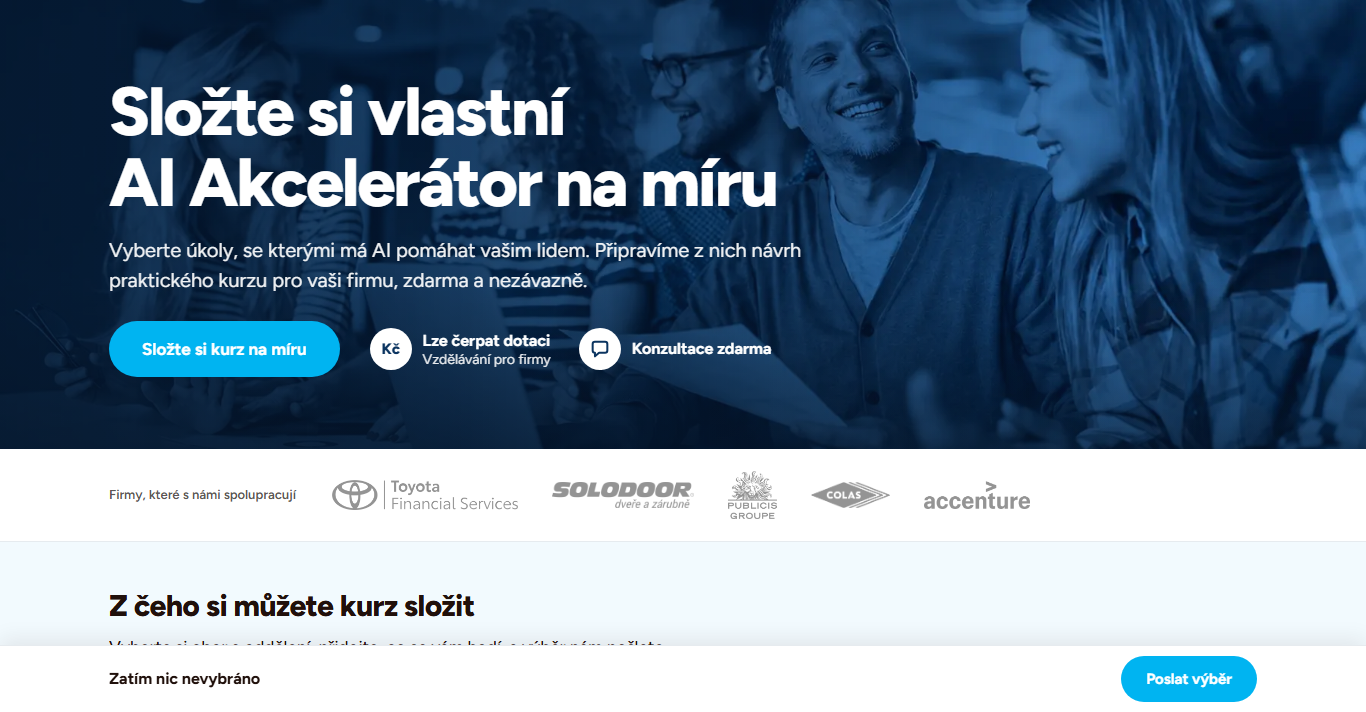
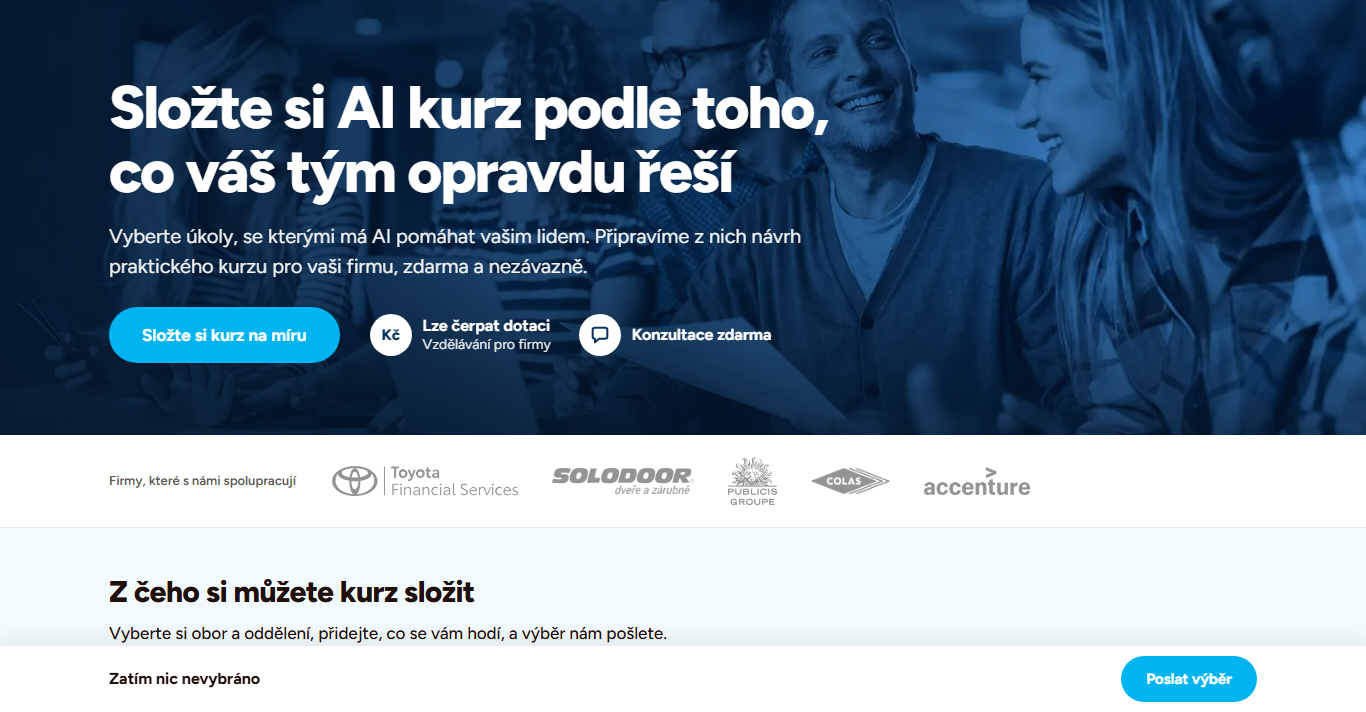
Nadpis bez názvu AI Akcelerátor a popisy karet „Naučíte se“
Návštěvník by název bez vysvětlení nechápal, zůstává jen ve shrnutí pro konzultanta.
Všech 42 popisů říká, co se člověk v kurzu naučí, ne co udělá aplikace.

diff --git a/index.html b/index.html
@@ -3,8 +3,8 @@
 <head>
 <meta charset="utf-8">
 <meta name="viewport" content="width=device-width, initial-scale=1">
-<title>Složte si vlastní AI Akcelerátor | LifeScale Business</title>
-<meta name="description" content="Vyberte, s čím by AI pomohla vašim lidem, a konzultant LifeScale vám z toho připraví návrh kurzu AI Akcelerátor na míru.">
+<title>Složte si AI kurz na míru | LifeScale Business</title>
+<meta name="description" content="Vyberte úkoly, se kterými má AI pomáhat vašim lidem, a konzultant LifeScale vám z nich připraví návrh kurzu na míru.">
 <meta name="claude:viewport-fit-sides" content="cover">
 <link rel="preconnect" href="https://fonts.googleapis.com">
 <link rel="preconnect" href="https://fonts.gstatic.com" crossorigin>
@@ -62,7 +62,7 @@ body::before{content:""; position:fixed; inset:0 0 auto; height:env(safe-area-in
 .hero{position:relative; overflow:hidden; color:#fff; padding:76px 0 72px; background:#0B3460 url("https://cms.lifescale.cz/assets/0bef6855-0b73-4e5a-b731-7e51b3e7ce15?width=1800&quality=72&format=webp") center/cover no-repeat}
 .hero::after{content:""; position:absolute; inset:0; background:linear-gradient(90deg, rgba(4,20,40,.78) 0%, rgba(4,20,40,.55) 48%, rgba(4,20,40,.12) 82%), linear-gradient(0deg, rgba(4,20,40,.62) 0%, rgba(4,20,40,0) 38%); pointer-events:none}
 .hero-in{position:relative; z-index:1}
-.hero h1{font-size:clamp(36px,5.2vw,68px); line-height:1.04; font-weight:800; letter-spacing:-.03em; color:#fff; max-width:15em}
+.hero h1{font-size:clamp(34px,4.6vw,60px); line-height:1.06; font-weight:800; letter-spacing:-.03em; color:#fff; max-width:12em}
 .nowrap{white-space:nowrap}
 .lede{font-size:clamp(17px,1.7vw,20px); line-height:1.5; color:rgba(255,255,255,.94); max-width:60ch; margin-top:18px}
 .hero-cta{display:flex; flex-wrap:wrap; align-items:center; gap:16px 30px; margin-top:26px}
@@ -257,7 +257,7 @@ html.embed::-webkit-scrollbar{display:none}
 <main id="top">
 <section class="hero">
   <div class="wrap hero-in">
-    <h1>Složte si vlastní <span class="nowrap">AI Akcelerátor</span> na míru</h1>
+    <h1>Složte si <span class="nowrap">AI kurz</span> podle toho, co váš tým opravdu řeší</h1>
     <p class="lede">Vyberte úkoly, se kterými má AI pomáhat vašim lidem. Připravíme z nich návrh praktického kurzu pro vaši firmu, zdarma a nezávazně.</p>
     <div class="hero-cta">
       <button class="btn btn-primary btn-lg" type="button" data-start>Složte si kurz na míru</button>
@@ -383,102 +383,102 @@ const LOGA = [
 const UC = [
   /* OBCHOD */
   { id:'o1', d:'obchod', i:[], u:[2,3], l:'s', t:'Nabídka z poptávky za pár minut',
-    w:'Z e-mailu s poptávkou připraví přehled, co klient chce, otázky, které je potřeba doplnit, a návrh průvodního e-mailu k nabídce.' },
+    w:'Naučíte se s AI připravit z e-mailu s poptávkou přehled, co klient chce, otázky k doplnění a návrh průvodního e-mailu.' },
   { id:'o2', d:'obchod', i:[], u:[1,2], l:'s', t:'Příprava na schůzku s novým klientem',
-    w:'Z vašich poznámek a informací z webu klienta připraví jednostránkový podklad: čím se firma zabývá, možné problémy, otázky a námitky.' },
+    w:'Naučíte se s AI připravit z poznámek a webu klienta jednostránkový podklad: čím se firma zabývá, možné problémy, otázky a námitky.' },
   { id:'o3', d:'obchod', i:[], u:[1,2], l:'s', t:'Zápis do CRM a další kroky po schůzce',
-    w:'Z přepisu nebo poznámek ze schůzky připraví shrnutí do CRM, seznam dalších kroků a e-mail klientovi.' },
+    w:'Naučíte se s AI připravit z přepisu nebo poznámek ze schůzky shrnutí do CRM, seznam dalších kroků a e-mail klientovi.' },
   { id:'o4', d:'obchod', i:[], u:[1,2], l:'s', t:'Trénink námitek s AI',
-    w:'AI hraje skeptického nákupčího a vy si zkoušíte odpovědi na námitky. Po každé odpovědi dostanete krátkou zpětnou vazbu.' },
+    w:'Naučíte se trénovat odpovědi na námitky: AI hraje skeptického nákupčího a po každé odpovědi vám dá krátkou zpětnou vazbu.' },
   /* MARKETING */
   { id:'m1', d:'marketing', i:[], u:[2,3], l:'s', t:'Z jednoho článku deset příspěvků',
-    w:'Z článku, webináře nebo prezentace připraví příspěvky na LinkedIn, tipy do newsletteru a varianty titulků.' },
+    w:'Naučíte se s AI připravit z článku, webináře nebo prezentace příspěvky na LinkedIn, tipy do newsletteru a varianty titulků.' },
   { id:'m2', d:'marketing', i:[], u:[1,2], l:'s', t:'Newsletter za hodinu místo za den',
-    w:'Z témat a poznámek připraví strukturu newsletteru: předmět, úvod, krátké bloky a výzvu k akci.' },
+    w:'Naučíte se s AI sestavit z témat a poznámek newsletter: předmět, úvod, krátké bloky a výzvu k akci.' },
   { id:'m3', d:'marketing', i:[], u:[2,4], l:'m', t:'Rozbor recenzí a dotazníků',
-    w:'Roztřídí odpovědi zákazníků do témat, spočítá zmínky, vybere typické citace a navrhne, co zlepšit nejdřív.' },
+    w:'Naučíte se s AI roztřídit odpovědi zákazníků do témat, spočítat zmínky, vybrat typické citace a určit, co zlepšit nejdřív.' },
   { id:'m4', d:'marketing', i:[], u:[1,3], l:'s', t:'Popisy produktů a služeb na web',
-    w:'Z technických parametrů připraví jednotné popisy na web: titulek, perex, přínosy pro zákazníka a parametry.' },
+    w:'Naučíte se s AI psát z technických parametrů jednotné popisy na web: titulek, perex, přínosy pro zákazníka a parametry.' },
   /* HR */
   { id:'h1', d:'hr', i:[], u:[1,2], l:'s', t:'Inzerát, na který se ozvou ti správní',
-    w:'Z popisu pozice připraví srozumitelný inzerát s jasnou náplní práce, požadavky a nabídkou.' },
+    w:'Naučíte se s AI napsat z popisu pozice srozumitelný inzerát s jasnou náplní práce, požadavky a nabídkou.' },
   { id:'h2', d:'hr', i:[], u:[2,3], l:'s', t:'Plán zaškolení na první měsíc',
-    w:'Připraví plán onboardingu po týdnech: cíle, s kým se potkat, co si přečíst a jak poznat, že to nováček zvládl.' },
+    w:'Naučíte se s AI sestavit plán onboardingu po týdnech: cíle, s kým se potkat, co si přečíst a jak poznat, že to nováček zvládl.' },
   { id:'h3', d:'hr', i:[], u:[1,2], l:'s', t:'Otázky k pohovoru a hodnoticí karta',
-    w:'Připraví otázky k pohovoru podle dovedností, které hledáte, a jednoduchou kartu pro férové porovnání uchazečů.' },
+    w:'Naučíte se s AI připravit otázky k pohovoru podle hledaných dovedností a jednoduchou kartu pro férové porovnání uchazečů.' },
   { id:'h4', d:'hr', i:[], u:[1,3], l:'m', t:'Odpovědi na časté dotazy ze směrnic',
-    w:'Z firemních směrnic připraví srozumitelné odpovědi na časté dotazy zaměstnanců, třeba k dovolené, home office nebo benefitům.' },
+    w:'Naučíte se s AI připravit z firemních směrnic srozumitelné odpovědi na časté dotazy zaměstnanců, třeba k dovolené, home office nebo benefitům.' },
   /* FINANCE */
   { id:'f1', d:'finance', i:[], u:[1,3], l:'m', t:'Komentář k odchylkám od rozpočtu',
-    w:'Najde největší odchylky skutečnosti od plánu a připraví srozumitelný komentář pro vedení.' },
+    w:'Naučíte se s AI najít největší odchylky skutečnosti od plánu a napsat k nim srozumitelný komentář pro vedení.' },
   { id:'f2', d:'finance', i:[], u:[0.5,1], l:'s', t:'Upomínky, které nezkazí vztah',
-    w:'Připraví tři stupně upomínky k neuhrazené faktuře, od přátelské po poslední před vymáháním.' },
+    w:'Naučíte se s AI připravit tři stupně upomínky k neuhrazené faktuře, od přátelské po poslední před vymáháním.' },
   { id:'f3', d:'finance', i:[], u:[1,2], l:'s', t:'Vzorce v Excelu bez hledání na internetu',
-    w:'Napíše vzorec pro český Excel, vysvětlí ho krok za krokem a poradí, jak ověřit, že počítá správně.' },
+    w:'Naučíte se s AI psát vzorce pro český Excel, rozumět jim krok za krokem a ověřit, že počítají správně.' },
   { id:'f4', d:'finance', i:[], u:[1,3], l:'m', t:'Kontrola faktury proti objednávce',
-    w:'Porovná fakturu s objednávkou nebo smlouvou a vypíše rozdíly v položkách, cenách, DPH a splatnosti.' },
+    w:'Naučíte se s AI porovnat fakturu s objednávkou nebo smlouvou a vypsat rozdíly v položkách, cenách, DPH a splatnosti.' },
   /* ZÁKAZNICKÁ PÉČE */
   { id:'z1', d:'pece', i:[], u:[2,4], l:'s', t:'Odpověď na stížnost, která uklidní',
-    w:'Připraví odpověď na stížnost, která uzná problém, vysvětlí další postup a nabídne konkrétní krok.' },
+    w:'Naučíte se s AI připravit odpověď na stížnost, která uzná problém, vysvětlí další postup a nabídne konkrétní krok.' },
   { id:'z2', d:'pece', i:[], u:[2,3], l:'m', t:'Šablony na nejčastější dotazy',
-    w:'Z dotazů za poslední měsíc najde nejčastější témata a ke každému připraví šablonu odpovědi.' },
+    w:'Naučíte se s AI najít v dotazech za poslední měsíc nejčastější témata a ke každému připravit šablonu odpovědi.' },
   { id:'z3', d:'pece', i:[], u:[1,2], l:'s', t:'Zákazník píše anglicky, německy nebo ukrajinsky',
-    w:'Přeloží zprávu zákazníka, shrne, co chce, a vaši odpověď přeloží zpátky do jeho jazyka.' },
+    w:'Naučíte se s AI přeložit zprávu zákazníka, shrnout, co chce, a vaši odpověď přeložit zpátky do jeho jazyka.' },
   { id:'z4', d:'pece', i:[], u:[1,2], l:'m', t:'Zpětná vazba k odpovědím týmu',
-    w:'Ohodnotí vzorek odpovědí týmu podle srozumitelnosti, empatie a toho, jestli řeší problém, a ke každé dá radu.' },
+    w:'Naučíte se s AI hodnotit vzorek odpovědí týmu podle srozumitelnosti, empatie a toho, jestli řeší problém, a získat ke každé radu.' },
   /* PROVOZ A ODBORNÁ PRÁCE */
   { id:'p1', d:'provoz', i:[], u:[1,3], l:'s', t:'Pracovní postup z poznámek',
-    w:'Z poznámek zkušeného kolegy připraví přehledný postup: účel, pomůcky, kroky v pořadí, časté chyby a kontrolu.' },
+    w:'Naučíte se s AI připravit z poznámek zkušeného kolegy přehledný postup: účel, pomůcky, kroky v pořadí, časté chyby a kontrolu.' },
   { id:'p2', d:'provoz', i:[], u:[1,2], l:'s', t:'Hledání příčiny opakovaného problému',
-    w:'Projde s vámi problém metodou 5x proč, ptá se po jedné otázce a na konci shrne pravděpodobnou příčinu a opatření.' },
+    w:'Naučíte se s AI projít problém metodou 5x proč, otázku po otázce, a na konci shrnout pravděpodobnou příčinu a opatření.' },
   { id:'p3', d:'provoz', i:[], u:[1,2], l:'s', t:'Předávka směny bez zmatků',
-    w:'Z poznámek ze směny připraví stručnou předávací zprávu: co se stalo, co je rozpracované a na co si dát pozor.' },
+    w:'Naučíte se s AI připravit z poznámek ze směny stručnou předávací zprávu: co se stalo, co je rozpracované a na co si dát pozor.' },
   { id:'p4', d:'provoz', i:[], u:[1,2], l:'s', t:'Školení BOZP do mobilu',
-    w:'Ze směrnice BOZP připraví krátkou lekci: čtyři karty s hlavními pravidly a tři kvízové otázky.' },
+    w:'Naučíte se s AI připravit ze směrnice BOZP krátkou lekci: čtyři karty s hlavními pravidly a tři kvízové otázky.' },
   /* VEDENÍ FIRMY */
   { id:'v1', d:'vedeni', i:[], u:[1,2], l:'s', t:'Týdenní přehled pro vedení na jednu stranu',
-    w:'Z tabulky s čísly připraví přehled: tři hlavní zprávy, co se zlepšilo, co zhoršilo a jaká rozhodnutí jsou potřeba.' },
+    w:'Naučíte se s AI připravit z tabulky s čísly přehled: tři hlavní zprávy, co se zlepšilo, co zhoršilo a jaká rozhodnutí jsou potřeba.' },
   { id:'v2', d:'vedeni', i:[], u:[1,1.5], l:'s', t:'Porada s jasným výsledkem',
-    w:'Připraví program porady s časy, odpovědnými lidmi a výstupy a šablonu zápisu s úkoly.' },
+    w:'Naučíte se s AI připravit program porady s časy, odpovědnými lidmi a výstupy a šablonu zápisu s úkoly.' },
   { id:'v3', d:'vedeni', i:[], u:[1,2], l:'s', t:'Oponentura strategického rozhodnutí',
-    w:'AI hraje kritického člena představenstva: najde argumenty proti, přehlédnutá rizika a otázky, na které chcete znát odpověď.' },
+    w:'Naučíte se nechat AI hrát kritického člena představenstva, který najde argumenty proti, přehlédnutá rizika a otázky, na které chcete znát odpověď.' },
   { id:'v4', d:'vedeni', i:[], u:[0.5,1], l:'m', t:'Pravidla pro používání AI ve firmě',
-    w:'Připraví návrh interních pravidel: jaké nástroje používat, co do nich nevkládat, kdy výstup kontroluje člověk a koho se ptát.' },
+    w:'Naučíte se s AI navrhnout interní pravidla: jaké nástroje používat, co do nich nevkládat, kdy výstup kontroluje člověk a koho se ptát.' },
   /* STAVEBNICTVÍ */
   { id:'s1', d:'obchod', i:['stavebnictvi'], u:[2,4], l:'m', t:'Kontrola výkazu výměr proti nabídce',
-    w:'Porovná výkaz výměr z poptávky s vaší cenovou nabídkou a najde chybějící položky a jiná množství nebo jednotky.' },
+    w:'Naučíte se s AI porovnat výkaz výměr z poptávky s vaší cenovou nabídkou a najít chybějící položky a jiná množství nebo jednotky.' },
   { id:'s2', d:'provoz', i:['stavebnictvi'], u:[1,3], l:'s', t:'Zápis z kontrolního dne',
-    w:'Z poznámek a hlasového přepisu z kontrolního dne připraví zápis se stavem prací, vadami, termíny a odpovědnými firmami.' },
+    w:'Naučíte se s AI připravit z poznámek a hlasového přepisu z kontrolního dne zápis se stavem prací, vadami, termíny a odpovědnými firmami.' },
   /* ZDRAVOTNICTVÍ */
   { id:'zd1', d:'pece', i:['zdravotnictvi'], u:[1,2], l:'s', t:'Srozumitelné pokyny pro pacienta',
-    w:'Přepíše odborné pokyny po vyšetření nebo zákroku do srozumitelné češtiny pro laika, nic medicínsky nemění.' },
+    w:'Naučíte se s AI přepsat odborné pokyny po vyšetření nebo zákroku do srozumitelné češtiny pro laika, bez změny medicínského obsahu.' },
   { id:'zd2', d:'vedeni', i:['zdravotnictvi'], u:[1,3], l:'m', t:'Rozpis služeb a zástupů',
-    w:'Navrhne rozpis služeb podle vašich pravidel a upozorní, kde je nejde splnit.' },
+    w:'Naučíte se s AI navrhnout rozpis služeb podle vašich pravidel a zjistit, kde je nejde splnit.' },
   /* LOGISTIKA */
   { id:'l1', d:'pece', i:['logistika'], u:[2,4], l:'m', t:'Odpověď na dotaz, kde je zásilka',
-    w:'Ze stavu v systému připraví odpověď zákazníkovi: kde zásilka je, kdy dorazí a co dělat, když nebude doma.' },
+    w:'Naučíte se s AI připravit ze stavu v systému odpověď zákazníkovi: kde zásilka je, kdy dorazí a co dělat, když nebude doma.' },
   { id:'l2', d:'vedeni', i:['logistika'], u:[1,3], l:'m', t:'Rozbor škod a reklamací za měsíc',
-    w:'Najde v reklamacích a škodách opakující se vzorce podle tras, typů a dnů a navrhne opatření s největším dopadem.' },
+    w:'Naučíte se s AI najít v reklamacích a škodách opakující se vzorce podle tras, typů a dnů a navrhnout opatření s největším dopadem.' },
   /* FINANČNÍ SLUŽBY */
   { id:'fs1', d:'obchod', i:['fin'], u:[1,2], l:'m', t:'Přehled firmy z výroční zprávy',
-    w:'Z výroční zprávy klienta připraví přehled hlavních ukazatelů, změn a rizik a otázky na schůzku.' },
+    w:'Naučíte se s AI připravit z výroční zprávy klienta přehled hlavních ukazatelů, změn a rizik a otázky na schůzku.' },
   { id:'fs2', d:'marketing', i:['fin'], u:[1,2], l:'s', t:'Srozumitelné vysvětlení produktu',
-    w:'Vysvětlí finanční produkt člověku bez finančního vzdělání: co to je, pro koho se hodí, poplatky a rizika.' },
+    w:'Naučíte se s AI vysvětlit finanční produkt člověku bez finančního vzdělání: co to je, pro koho se hodí, poplatky a rizika.' },
   /* ADVOKÁTNÍ KANCELÁŘE */
   { id:'a1', d:'provoz', i:['pravo'], u:[2,4], l:'m', t:'První verze smlouvy z vaší šablony',
-    w:'Podle vaší šablony a podmínek obchodu připraví první verzi smlouvy, změny označí a nejasná místa vypíše jako otázky.' },
+    w:'Naučíte se s AI připravit podle vaší šablony a podmínek obchodu první verzi smlouvy, označit změny a vypsat nejasná místa jako otázky.' },
   { id:'a2', d:'provoz', i:['pravo'], u:[2,4], l:'m', t:'Časová osa a shrnutí spisu',
-    w:'Z dokumentů ke kauze sestaví časovou osu s odkazy na dokumenty, shrne stanoviska stran a najde rozpory.' },
+    w:'Naučíte se s AI sestavit z dokumentů ke kauze časovou osu s odkazy, shrnout stanoviska stran a najít rozpory.' },
   /* VÝROBA A PRŮMYSL */
   { id:'vy1', d:'provoz', i:['vyroba'], u:[1,2], l:'s', t:'Návod ke stroji v jazyce operátora',
-    w:'Přepíše návod ke stroji do krátkého postupu pro operátora a přeloží ho, třeba do ukrajinštiny nebo vietnamštiny.' },
+    w:'Naučíte se s AI přepsat návod ke stroji do krátkého postupu pro operátora a přeložit ho, třeba do ukrajinštiny nebo vietnamštiny.' },
   { id:'vy2', d:'provoz', i:['vyroba'], u:[1,2], l:'m', t:'Plán preventivní údržby',
-    w:'Z intervalů v návodech a historie poruch navrhne plán údržby na čtvrtletí a upozorní, kde interval nestačí.' },
+    w:'Naučíte se s AI navrhnout z intervalů v návodech a historie poruch plán údržby na čtvrtletí a zjistit, kde interval nestačí.' },
   /* AUTOMOTIVE */
   { id:'au1', d:'provoz', i:['auto'], u:[2,4], l:'m', t:'Návrh 8D reportu k reklamaci',
-    w:'Připraví pracovní verzi 8D reportu a u každého kroku napíše, co chybí a koho se zeptat.' },
+    w:'Naučíte se s AI připravit pracovní verzi 8D reportu a u každého kroku zjistit, co chybí a koho se zeptat.' },
   { id:'au2', d:'vedeni', i:['auto'], u:[1,3], l:'m', t:'Příprava na audit podle IATF',
-    w:'Projde váš postup a vypíše otázky, které auditor pravděpodobně položí, i důkazy, které máte mít připravené.' }
+    w:'Naučíte se s AI projít váš postup a vypsat otázky, které auditor pravděpodobně položí, i důkazy, které máte mít připravené.' }
 ];
 /* ---------- Složte si vlastní AI Akcelerátor: logika ---------- */
 (function(){

diff --git a/src/data.js b/src/data.js
@@ -27,100 +27,100 @@ const LOGA = [
 const UC = [
   /* OBCHOD */
   { id:'o1', d:'obchod', i:[], u:[2,3], l:'s', t:'Nabídka z poptávky za pár minut',
-    w:'Z e-mailu s poptávkou připraví přehled, co klient chce, otázky, které je potřeba doplnit, a návrh průvodního e-mailu k nabídce.' },
+    w:'Naučíte se s AI připravit z e-mailu s poptávkou přehled, co klient chce, otázky k doplnění a návrh průvodního e-mailu.' },
   { id:'o2', d:'obchod', i:[], u:[1,2], l:'s', t:'Příprava na schůzku s novým klientem',
-    w:'Z vašich poznámek a informací z webu klienta připraví jednostránkový podklad: čím se firma zabývá, možné problémy, otázky a námitky.' },
+    w:'Naučíte se s AI připravit z poznámek a webu klienta jednostránkový podklad: čím se firma zabývá, možné problémy, otázky a námitky.' },
   { id:'o3', d:'obchod', i:[], u:[1,2], l:'s', t:'Zápis do CRM a další kroky po schůzce',
-    w:'Z přepisu nebo poznámek ze schůzky připraví shrnutí do CRM, seznam dalších kroků a e-mail klientovi.' },
+    w:'Naučíte se s AI připravit z přepisu nebo poznámek ze schůzky shrnutí do CRM, seznam dalších kroků a e-mail klientovi.' },
   { id:'o4', d:'obchod', i:[], u:[1,2], l:'s', t:'Trénink námitek s AI',
-    w:'AI hraje skeptického nákupčího a vy si zkoušíte odpovědi na námitky. Po každé odpovědi dostanete krátkou zpětnou vazbu.' },
+    w:'Naučíte se trénovat odpovědi na námitky: AI hraje skeptického nákupčího a po každé odpovědi vám dá krátkou zpětnou vazbu.' },
   /* MARKETING */
   { id:'m1', d:'marketing', i:[], u:[2,3], l:'s', t:'Z jednoho článku deset příspěvků',
-    w:'Z článku, webináře nebo prezentace připraví příspěvky na LinkedIn, tipy do newsletteru a varianty titulků.' },
+    w:'Naučíte se s AI připravit z článku, webináře nebo prezentace příspěvky na LinkedIn, tipy do newsletteru a varianty titulků.' },
   { id:'m2', d:'marketing', i:[], u:[1,2], l:'s', t:'Newsletter za hodinu místo za den',
-    w:'Z témat a poznámek připraví strukturu newsletteru: předmět, úvod, krátké bloky a výzvu k akci.' },
+    w:'Naučíte se s AI sestavit z témat a poznámek newsletter: předmět, úvod, krátké bloky a výzvu k akci.' },
   { id:'m3', d:'marketing', i:[], u:[2,4], l:'m', t:'Rozbor recenzí a dotazníků',
-    w:'Roztřídí odpovědi zákazníků do témat, spočítá zmínky, vybere typické citace a navrhne, co zlepšit nejdřív.' },
+    w:'Naučíte se s AI roztřídit odpovědi zákazníků do témat, spočítat zmínky, vybrat typické citace a určit, co zlepšit nejdřív.' },
   { id:'m4', d:'marketing', i:[], u:[1,3], l:'s', t:'Popisy produktů a služeb na web',
-    w:'Z technických parametrů připraví jednotné popisy na web: titulek, perex, přínosy pro zákazníka a parametry.' },
+    w:'Naučíte se s AI psát z technických parametrů jednotné popisy na web: titulek, perex, přínosy pro zákazníka a parametry.' },
   /* HR */
   { id:'h1', d:'hr', i:[], u:[1,2], l:'s', t:'Inzerát, na který se ozvou ti správní',
-    w:'Z popisu pozice připraví srozumitelný inzerát s jasnou náplní práce, požadavky a nabídkou.' },
+    w:'Naučíte se s AI napsat z popisu pozice srozumitelný inzerát s jasnou náplní práce, požadavky a nabídkou.' },
   { id:'h2', d:'hr', i:[], u:[2,3], l:'s', t:'Plán zaškolení na první měsíc',
-    w:'Připraví plán onboardingu po týdnech: cíle, s kým se potkat, co si přečíst a jak poznat, že to nováček zvládl.' },
+    w:'Naučíte se s AI sestavit plán onboardingu po týdnech: cíle, s kým se potkat, co si přečíst a jak poznat, že to nováček zvládl.' },
   { id:'h3', d:'hr', i:[], u:[1,2], l:'s', t:'Otázky k pohovoru a hodnoticí karta',
-    w:'Připraví otázky k pohovoru podle dovedností, které hledáte, a jednoduchou kartu pro férové porovnání uchazečů.' },
+    w:'Naučíte se s AI připravit otázky k pohovoru podle hledaných dovedností a jednoduchou kartu pro férové porovnání uchazečů.' },
   { id:'h4', d:'hr', i:[], u:[1,3], l:'m', t:'Odpovědi na časté dotazy ze směrnic',
-    w:'Z firemních směrnic připraví srozumitelné odpovědi na časté dotazy zaměstnanců, třeba k dovolené, home office nebo benefitům.' },
+    w:'Naučíte se s AI připravit z firemních směrnic srozumitelné odpovědi na časté dotazy zaměstnanců, třeba k dovolené, home office nebo benefitům.' },
   /* FINANCE */
   { id:'f1', d:'finance', i:[], u:[1,3], l:'m', t:'Komentář k odchylkám od rozpočtu',
-    w:'Najde největší odchylky skutečnosti od plánu a připraví srozumitelný komentář pro vedení.' },
+    w:'Naučíte se s AI najít největší odchylky skutečnosti od plánu a napsat k nim srozumitelný komentář pro vedení.' },
   { id:'f2', d:'finance', i:[], u:[0.5,1], l:'s', t:'Upomínky, které nezkazí vztah',
-    w:'Připraví tři stupně upomínky k neuhrazené faktuře, od přátelské po poslední před vymáháním.' },
+    w:'Naučíte se s AI připravit tři stupně upomínky k neuhrazené faktuře, od přátelské po poslední před vymáháním.' },
   { id:'f3', d:'finance', i:[], u:[1,2], l:'s', t:'Vzorce v Excelu bez hledání na internetu',
-    w:'Napíše vzorec pro český Excel, vysvětlí ho krok za krokem a poradí, jak ověřit, že počítá správně.' },
+    w:'Naučíte se s AI psát vzorce pro český Excel, rozumět jim krok za krokem a ověřit, že počítají správně.' },
   { id:'f4', d:'finance', i:[], u:[1,3], l:'m', t:'Kontrola faktury proti objednávce',
-    w:'Porovná fakturu s objednávkou nebo smlouvou a vypíše rozdíly v položkách, cenách, DPH a splatnosti.' },
+    w:'Naučíte se s AI porovnat fakturu s objednávkou nebo smlouvou a vypsat rozdíly v položkách, cenách, DPH a splatnosti.' },
   /* ZÁKAZNICKÁ PÉČE */
   { id:'z1', d:'pece', i:[], u:[2,4], l:'s', t:'Odpověď na stížnost, která uklidní',
-    w:'Připraví odpověď na stížnost, která uzná problém, vysvětlí další postup a nabídne konkrétní krok.' },
+    w:'Naučíte se s AI připravit odpověď na stížnost, která uzná problém, vysvětlí další postup a nabídne konkrétní krok.' },
   { id:'z2', d:'pece', i:[], u:[2,3], l:'m', t:'Šablony na nejčastější dotazy',
-    w:'Z dotazů za poslední měsíc najde nejčastější témata a ke každému připraví šablonu odpovědi.' },
+    w:'Naučíte se s AI najít v dotazech za poslední měsíc nejčastější témata a ke každému připravit šablonu odpovědi.' },
   { id:'z3', d:'pece', i:[], u:[1,2], l:'s', t:'Zákazník píše anglicky, německy nebo ukrajinsky',
-    w:'Přeloží zprávu zákazníka, shrne, co chce, a vaši odpověď přeloží zpátky do jeho jazyka.' },
+    w:'Naučíte se s AI přeložit zprávu zákazníka, shrnout, co chce, a vaši odpověď přeložit zpátky do jeho jazyka.' },
   { id:'z4', d:'pece', i:[], u:[1,2], l:'m', t:'Zpětná vazba k odpovědím týmu',
-    w:'Ohodnotí vzorek odpovědí týmu podle srozumitelnosti, empatie a toho, jestli řeší problém, a ke každé dá radu.' },
+    w:'Naučíte se s AI hodnotit vzorek odpovědí týmu podle srozumitelnosti, empatie a toho, jestli řeší problém, a získat ke každé radu.' },
   /* PROVOZ A ODBORNÁ PRÁCE */
   { id:'p1', d:'provoz', i:[], u:[1,3], l:'s', t:'Pracovní postup z poznámek',
-    w:'Z poznámek zkušeného kolegy připraví přehledný postup: účel, pomůcky, kroky v pořadí, časté chyby a kontrolu.' },
+    w:'Naučíte se s AI připravit z poznámek zkušeného kolegy přehledný postup: účel, pomůcky, kroky v pořadí, časté chyby a kontrolu.' },
   { id:'p2', d:'provoz', i:[], u:[1,2], l:'s', t:'Hledání příčiny opakovaného problému',
-    w:'Projde s vámi problém metodou 5x proč, ptá se po jedné otázce a na konci shrne pravděpodobnou příčinu a opatření.' },
+    w:'Naučíte se s AI projít problém metodou 5x proč, otázku po otázce, a na konci shrnout pravděpodobnou příčinu a opatření.' },
   { id:'p3', d:'provoz', i:[], u:[1,2], l:'s', t:'Předávka směny bez zmatků',
-    w:'Z poznámek ze směny připraví stručnou předávací zprávu: co se stalo, co je rozpracované a na co si dát pozor.' },
+    w:'Naučíte se s AI připravit z poznámek ze směny stručnou předávací zprávu: co se stalo, co je rozpracované a na co si dát pozor.' },
   { id:'p4', d:'provoz', i:[], u:[1,2], l:'s', t:'Školení BOZP do mobilu',
-    w:'Ze směrnice BOZP připraví krátkou lekci: čtyři karty s hlavními pravidly a tři kvízové otázky.' },
+    w:'Naučíte se s AI připravit ze směrnice BOZP krátkou lekci: čtyři karty s hlavními pravidly a tři kvízové otázky.' },
   /* VEDENÍ FIRMY */
   { id:'v1', d:'vedeni', i:[], u:[1,2], l:'s', t:'Týdenní přehled pro vedení na jednu stranu',
-    w:'Z tabulky s čísly připraví přehled: tři hlavní zprávy, co se zlepšilo, co zhoršilo a jaká rozhodnutí jsou potřeba.' },
+    w:'Naučíte se s AI připravit z tabulky s čísly přehled: tři hlavní zprávy, co se zlepšilo, co zhoršilo a jaká rozhodnutí jsou potřeba.' },
   { id:'v2', d:'vedeni', i:[], u:[1,1.5], l:'s', t:'Porada s jasným výsledkem',
-    w:'Připraví program porady s časy, odpovědnými lidmi a výstupy a šablonu zápisu s úkoly.' },
+    w:'Naučíte se s AI připravit program porady s časy, odpovědnými lidmi a výstupy a šablonu zápisu s úkoly.' },
   { id:'v3', d:'vedeni', i:[], u:[1,2], l:'s', t:'Oponentura strategického rozhodnutí',
-    w:'AI hraje kritického člena představenstva: najde argumenty proti, přehlédnutá rizika a otázky, na které chcete znát odpověď.' },
+    w:'Naučíte se nechat AI hrát kritického člena představenstva, který najde argumenty proti, přehlédnutá rizika a otázky, na které chcete znát odpověď.' },
   { id:'v4', d:'vedeni', i:[], u:[0.5,1], l:'m', t:'Pravidla pro používání AI ve firmě',
-    w:'Připraví návrh interních pravidel: jaké nástroje používat, co do nich nevkládat, kdy výstup kontroluje člověk a koho se ptát.' },
+    w:'Naučíte se s AI navrhnout interní pravidla: jaké nástroje používat, co do nich nevkládat, kdy výstup kontroluje člověk a koho se ptát.' },
   /* STAVEBNICTVÍ */
   { id:'s1', d:'obchod', i:['stavebnictvi'], u:[2,4], l:'m', t:'Kontrola výkazu výměr proti nabídce',
-    w:'Porovná výkaz výměr z poptávky s vaší cenovou nabídkou a najde chybějící položky a jiná množství nebo jednotky.' },
+    w:'Naučíte se s AI porovnat výkaz výměr z poptávky s vaší cenovou nabídkou a najít chybějící položky a jiná množství nebo jednotky.' },
   { id:'s2', d:'provoz', i:['stavebnictvi'], u:[1,3], l:'s', t:'Zápis z kontrolního dne',
-    w:'Z poznámek a hlasového přepisu z kontrolního dne připraví zápis se stavem prací, vadami, termíny a odpovědnými firmami.' },
+    w:'Naučíte se s AI připravit z poznámek a hlasového přepisu z kontrolního dne zápis se stavem prací, vadami, termíny a odpovědnými firmami.' },
   /* ZDRAVOTNICTVÍ */
   { id:'zd1', d:'pece', i:['zdravotnictvi'], u:[1,2], l:'s', t:'Srozumitelné pokyny pro pacienta',
-    w:'Přepíše odborné pokyny po vyšetření nebo zákroku do srozumitelné češtiny pro laika, nic medicínsky nemění.' },
+    w:'Naučíte se s AI přepsat odborné pokyny po vyšetření nebo zákroku do srozumitelné češtiny pro laika, bez změny medicínského obsahu.' },
   { id:'zd2', d:'vedeni', i:['zdravotnictvi'], u:[1,3], l:'m', t:'Rozpis služeb a zástupů',
-    w:'Navrhne rozpis služeb podle vašich pravidel a upozorní, kde je nejde splnit.' },
+    w:'Naučíte se s AI navrhnout rozpis služeb podle vašich pravidel a zjistit, kde je nejde splnit.' },
   /* LOGISTIKA */
   { id:'l1', d:'pece', i:['logistika'], u:[2,4], l:'m', t:'Odpověď na dotaz, kde je zásilka',
-    w:'Ze stavu v systému připraví odpověď zákazníkovi: kde zásilka je, kdy dorazí a co dělat, když nebude doma.' },
+    w:'Naučíte se s AI připravit ze stavu v systému odpověď zákazníkovi: kde zásilka je, kdy dorazí a co dělat, když nebude doma.' },
   { id:'l2', d:'vedeni', i:['logistika'], u:[1,3], l:'m', t:'Rozbor škod a reklamací za měsíc',
-    w:'Najde v reklamacích a škodách opakující se vzorce podle tras, typů a dnů a navrhne opatření s největším dopadem.' },
+    w:'Naučíte se s AI najít v reklamacích a škodách opakující se vzorce podle tras, typů a dnů a navrhnout opatření s největším dopadem.' },
   /* FINANČNÍ SLUŽBY */
   { id:'fs1', d:'obchod', i:['fin'], u:[1,2], l:'m', t:'Přehled firmy z výroční zprávy',
-    w:'Z výroční zprávy klienta připraví přehled hlavních ukazatelů, změn a rizik a otázky na schůzku.' },
+    w:'Naučíte se s AI připravit z výroční zprávy klienta přehled hlavních ukazatelů, změn a rizik a otázky na schůzku.' },
   { id:'fs2', d:'marketing', i:['fin'], u:[1,2], l:'s', t:'Srozumitelné vysvětlení produktu',
-    w:'Vysvětlí finanční produkt člověku bez finančního vzdělání: co to je, pro koho se hodí, poplatky a rizika.' },
+    w:'Naučíte se s AI vysvětlit finanční produkt člověku bez finančního vzdělání: co to je, pro koho se hodí, poplatky a rizika.' },
   /* ADVOKÁTNÍ KANCELÁŘE */
   { id:'a1', d:'provoz', i:['pravo'], u:[2,4], l:'m', t:'První verze smlouvy z vaší šablony',
-    w:'Podle vaší šablony a podmínek obchodu připraví první verzi smlouvy, změny označí a nejasná místa vypíše jako otázky.' },
+    w:'Naučíte se s AI připravit podle vaší šablony a podmínek obchodu první verzi smlouvy, označit změny a vypsat nejasná místa jako otázky.' },
   { id:'a2', d:'provoz', i:['pravo'], u:[2,4], l:'m', t:'Časová osa a shrnutí spisu',
-    w:'Z dokumentů ke kauze sestaví časovou osu s odkazy na dokumenty, shrne stanoviska stran a najde rozpory.' },
+    w:'Naučíte se s AI sestavit z dokumentů ke kauze časovou osu s odkazy, shrnout stanoviska stran a najít rozpory.' },
   /* VÝROBA A PRŮMYSL */
   { id:'vy1', d:'provoz', i:['vyroba'], u:[1,2], l:'s', t:'Návod ke stroji v jazyce operátora',
-    w:'Přepíše návod ke stroji do krátkého postupu pro operátora a přeloží ho, třeba do ukrajinštiny nebo vietnamštiny.' },
+    w:'Naučíte se s AI přepsat návod ke stroji do krátkého postupu pro operátora a přeložit ho, třeba do ukrajinštiny nebo vietnamštiny.' },
   { id:'vy2', d:'provoz', i:['vyroba'], u:[1,2], l:'m', t:'Plán preventivní údržby',
-    w:'Z intervalů v návodech a historie poruch navrhne plán údržby na čtvrtletí a upozorní, kde interval nestačí.' },
+    w:'Naučíte se s AI navrhnout z intervalů v návodech a historie poruch plán údržby na čtvrtletí a zjistit, kde interval nestačí.' },
   /* AUTOMOTIVE */
   { id:'au1', d:'provoz', i:['auto'], u:[2,4], l:'m', t:'Návrh 8D reportu k reklamaci',
-    w:'Připraví pracovní verzi 8D reportu a u každého kroku napíše, co chybí a koho se zeptat.' },
+    w:'Naučíte se s AI připravit pracovní verzi 8D reportu a u každého kroku zjistit, co chybí a koho se zeptat.' },
   { id:'au2', d:'vedeni', i:['auto'], u:[1,3], l:'m', t:'Příprava na audit podle IATF',
-    w:'Projde váš postup a vypíše otázky, které auditor pravděpodobně položí, i důkazy, které máte mít připravené.' }
+    w:'Naučíte se s AI projít váš postup a vypsat otázky, které auditor pravděpodobně položí, i důkazy, které máte mít připravené.' }
 ];

diff --git a/src/head.html b/src/head.html
@@ -1,5 +1,5 @@
-<title>Složte si vlastní AI Akcelerátor | LifeScale Business</title>
-<meta name="description" content="Vyberte, s čím by AI pomohla vašim lidem, a konzultant LifeScale vám z toho připraví návrh kurzu AI Akcelerátor na míru.">
+<title>Složte si AI kurz na míru | LifeScale Business</title>
+<meta name="description" content="Vyberte úkoly, se kterými má AI pomáhat vašim lidem, a konzultant LifeScale vám z nich připraví návrh kurzu na míru.">
 <meta name="claude:viewport-fit-sides" content="cover">
 <link rel="preconnect" href="https://fonts.googleapis.com">
 <link rel="preconnect" href="https://fonts.gstatic.com" crossorigin>
@@ -57,7 +57,7 @@ body::before{content:""; position:fixed; inset:0 0 auto; height:env(safe-area-in
 .hero{position:relative; overflow:hidden; color:#fff; padding:76px 0 72px; background:#0B3460 url("https://cms.lifescale.cz/assets/0bef6855-0b73-4e5a-b731-7e51b3e7ce15?width=1800&quality=72&format=webp") center/cover no-repeat}
 .hero::after{content:""; position:absolute; inset:0; background:linear-gradient(90deg, rgba(4,20,40,.78) 0%, rgba(4,20,40,.55) 48%, rgba(4,20,40,.12) 82%), linear-gradient(0deg, rgba(4,20,40,.62) 0%, rgba(4,20,40,0) 38%); pointer-events:none}
 .hero-in{position:relative; z-index:1}
-.hero h1{font-size:clamp(36px,5.2vw,68px); line-height:1.04; font-weight:800; letter-spacing:-.03em; color:#fff; max-width:15em}
+.hero h1{font-size:clamp(34px,4.6vw,60px); line-height:1.06; font-weight:800; letter-spacing:-.03em; color:#fff; max-width:12em}
 .nowrap{white-space:nowrap}
 .lede{font-size:clamp(17px,1.7vw,20px); line-height:1.5; color:rgba(255,255,255,.94); max-width:60ch; margin-top:18px}
 .hero-cta{display:flex; flex-wrap:wrap; align-items:center; gap:16px 30px; margin-top:26px}

diff --git a/cms/html-blok.html b/cms/html-blok.html
@@ -6,7 +6,7 @@ section:has(.ls-ai-mapa){padding-left:0 !important; padding-right:0 !important}
 .ls-ai-mapa{height:calc(100vh - 56px); height:calc(100dvh - 56px); margin:0}
 .ls-ai-mapa iframe{display:block; width:100%; height:100%; border:0; margin:0}
 </style>
-<div class="ls-ai-mapa not-prose"><iframe src="https://ondrejkamaryt.github.io/ai-mapa-pro-firmy/" title="Složte si vlastní AI Akcelerátor" allow="clipboard-write"></iframe></div>
+<div class="ls-ai-mapa not-prose"><iframe src="https://ondrejkamaryt.github.io/ai-mapa-pro-firmy/" title="Složte si AI kurz na míru" allow="clipboard-write"></iframe></div>
 <script>
 (function () {
   if (window.__lsAiMapa) return;

diff --git a/src/body.html b/src/body.html
@@ -11,7 +11,7 @@
 <main id="top">
 <section class="hero">
   <div class="wrap hero-in">
-    <h1>Složte si vlastní <span class="nowrap">AI Akcelerátor</span> na míru</h1>
+    <h1>Složte si <span class="nowrap">AI kurz</span> podle toho, co váš tým opravdu řeší</h1>
     <p class="lede">Vyberte úkoly, se kterými má AI pomáhat vašim lidem. Připravíme z nich návrh praktického kurzu pro vaši firmu, zdarma a nezávazně.</p>
     <div class="hero-cta">
       <button class="btn btn-primary btn-lg" type="button" data-start>Složte si kurz na míru</button>

diff --git a/tests/test_flow.py b/tests/test_flow.py
@@ -57,7 +57,7 @@ async def main():
         async def pick(pole, skupina, k):
             await pg.click('#' + skupina + ' summary'); await pg.click('[data-' + pole + '="' + k + '"]'); await pg.wait_for_timeout(200)
         await pg.screenshot(path=f'{OUT}/m-start.png')
-        ok['nadpis s AI Akcelerátorem'] = 'AI Akcelerátor' in norm(await pg.inner_text('h1'))
+        ok['nadpis bez názvu AI Akcelerátor'] = norm(await pg.inner_text('h1')).startswith('Složte si AI kurz') and 'Akcelerátor' not in norm(await pg.inner_text('.hero'))
         hero = norm(await pg.inner_text('.hero'))
         ok['dotace a konzultace zdarma v úvodu'] = 'Lze čerpat dotaci' in hero and 'Konzultace zdarma' in hero
         ok['nadpis v jedné velikosti'] = await pg.locator('h1 span.h1-pre, h1 span.h1-name').count() == 0
@@ -86,6 +86,8 @@ async def main():
         ok['zrušení oddělení vrátí šestici'] = await pg.locator('.uc').count() == 6 and await pg.is_visible('#more')
         await pg.click('[data-more]'); await pg.wait_for_timeout(150)
         ok['všech 42 po kliknutí'] = await pg.locator('.uc').count() == 42 and await pg.is_hidden('#more')
+        popisy = await pg.eval_on_selector_all('.uc .w', 'els => els.map(e => e.textContent)')
+        ok['všech 42 popisů říká, co se naučíte'] = len(popisy) == 42 and all(norm(x).startswith('Naučíte se') for x in popisy)
         lv = await pg.eval_on_selector_all('.uc .lvl', 'els => els.map(e => e.getAttribute("aria-label"))')
         ok['seřazeno od nejsnazších'] = lv == sorted(lv, key=lambda a: 'střední' in a)
         await pick('obor', 'g-obor', 'vyroba')

diff --git a/README.md b/README.md
@@ -10,7 +10,7 @@ Lead magnet pro LifeScale Business, dřív „AI mapa pro firmy“. Cílí hlavn
 
 ## Jak to funguje
 
-1. Úvod s fotkou: „Složte si vlastní AI Akcelerátor na míru“ v jedné velikosti, podnadpis s tím, co návštěvník dostane, tlačítko „Složte si kurz na míru“ a ikony „Lze čerpat dotaci Vzdělávání pro firmy“ a „Konzultace zdarma“. Pod úvodem je šedá řada pěti log firem (pole `LOGA` v `src/data.js`).
+1. Úvod s fotkou: „Složte si AI kurz podle toho, co váš tým opravdu řeší“. Název AI Akcelerátor na stránce záměrně není, návštěvník by mu bez vysvětlení nerozuměl, zůstává jen ve shrnutí pro konzultanta. Dál podnadpis s tím, co návštěvník dostane, tlačítko „Složte si kurz na míru“ a ikony „Lze čerpat dotaci Vzdělávání pro firmy“ a „Konzultace zdarma“. Pod úvodem je šedá řada pěti log firem (pole `LOGA` v `src/data.js`).
 2. Pracovní část začíná jednou větou, jak se stránkou pracovat. Vlevo je filtr s obory (výroba je první) a odděleními, který při posouvání zůstává vidět, vpravo karty. Na telefonu jsou to dvě rozbalovací menu nad kartami. Bez vybraného oboru a oddělení stránka ukáže šest snadných možností, každou z jiného oddělení (pole `START` v `src/app.js`), a tlačítko „Zobrazit všech 42 možností“. Po výběru oboru nebo oddělení ukáže všechny možnosti, které k němu patří, seřazené od nejsnazších. Oba filtry platí zároveň. Obtížnost ukazuje slovo a ikona se třemi sloupečky: snadné mají vyplněný jeden, střední dva.
 3. Každá karta říká, co možnost přinese a kolik času týdně ušetří, a má jediné tlačítko: „Přidat do výběru“, případně „Odebrat z výběru“. Detail s postupem a pokynem pro AI už stránka nemá.
 4. U spodního okraje je pořád vidět lišta s počtem vybraných možností a tlačítkem „Poslat výběr“, které vede k formuláři. Když je formulář na obrazovce nebo se do něj píše, lišta uhne.
@@ -79,7 +79,7 @@ Možnosti jsou v `src/data.js` v poli `UC`. Každá má tato pole:
 | `i` | obory, pro které je možnost určená, prázdné pole znamená všechny obory |
 | `u` | úspora v hodinách týdně na člověka ve tvaru `[od, do]` |
 | `l` | obtížnost: `s` snadné, `m` střední |
-| `t`, `w` | název a co možnost přinese |
+| `t`, `w` | název a co se člověk naučí, popis začíná „Naučíte se“ |
 
 Pořadí oborů určuje pole `OBORY`, šest úvodních možností pole `START` v `src/app.js`. Po úpravě spusťte:
 
